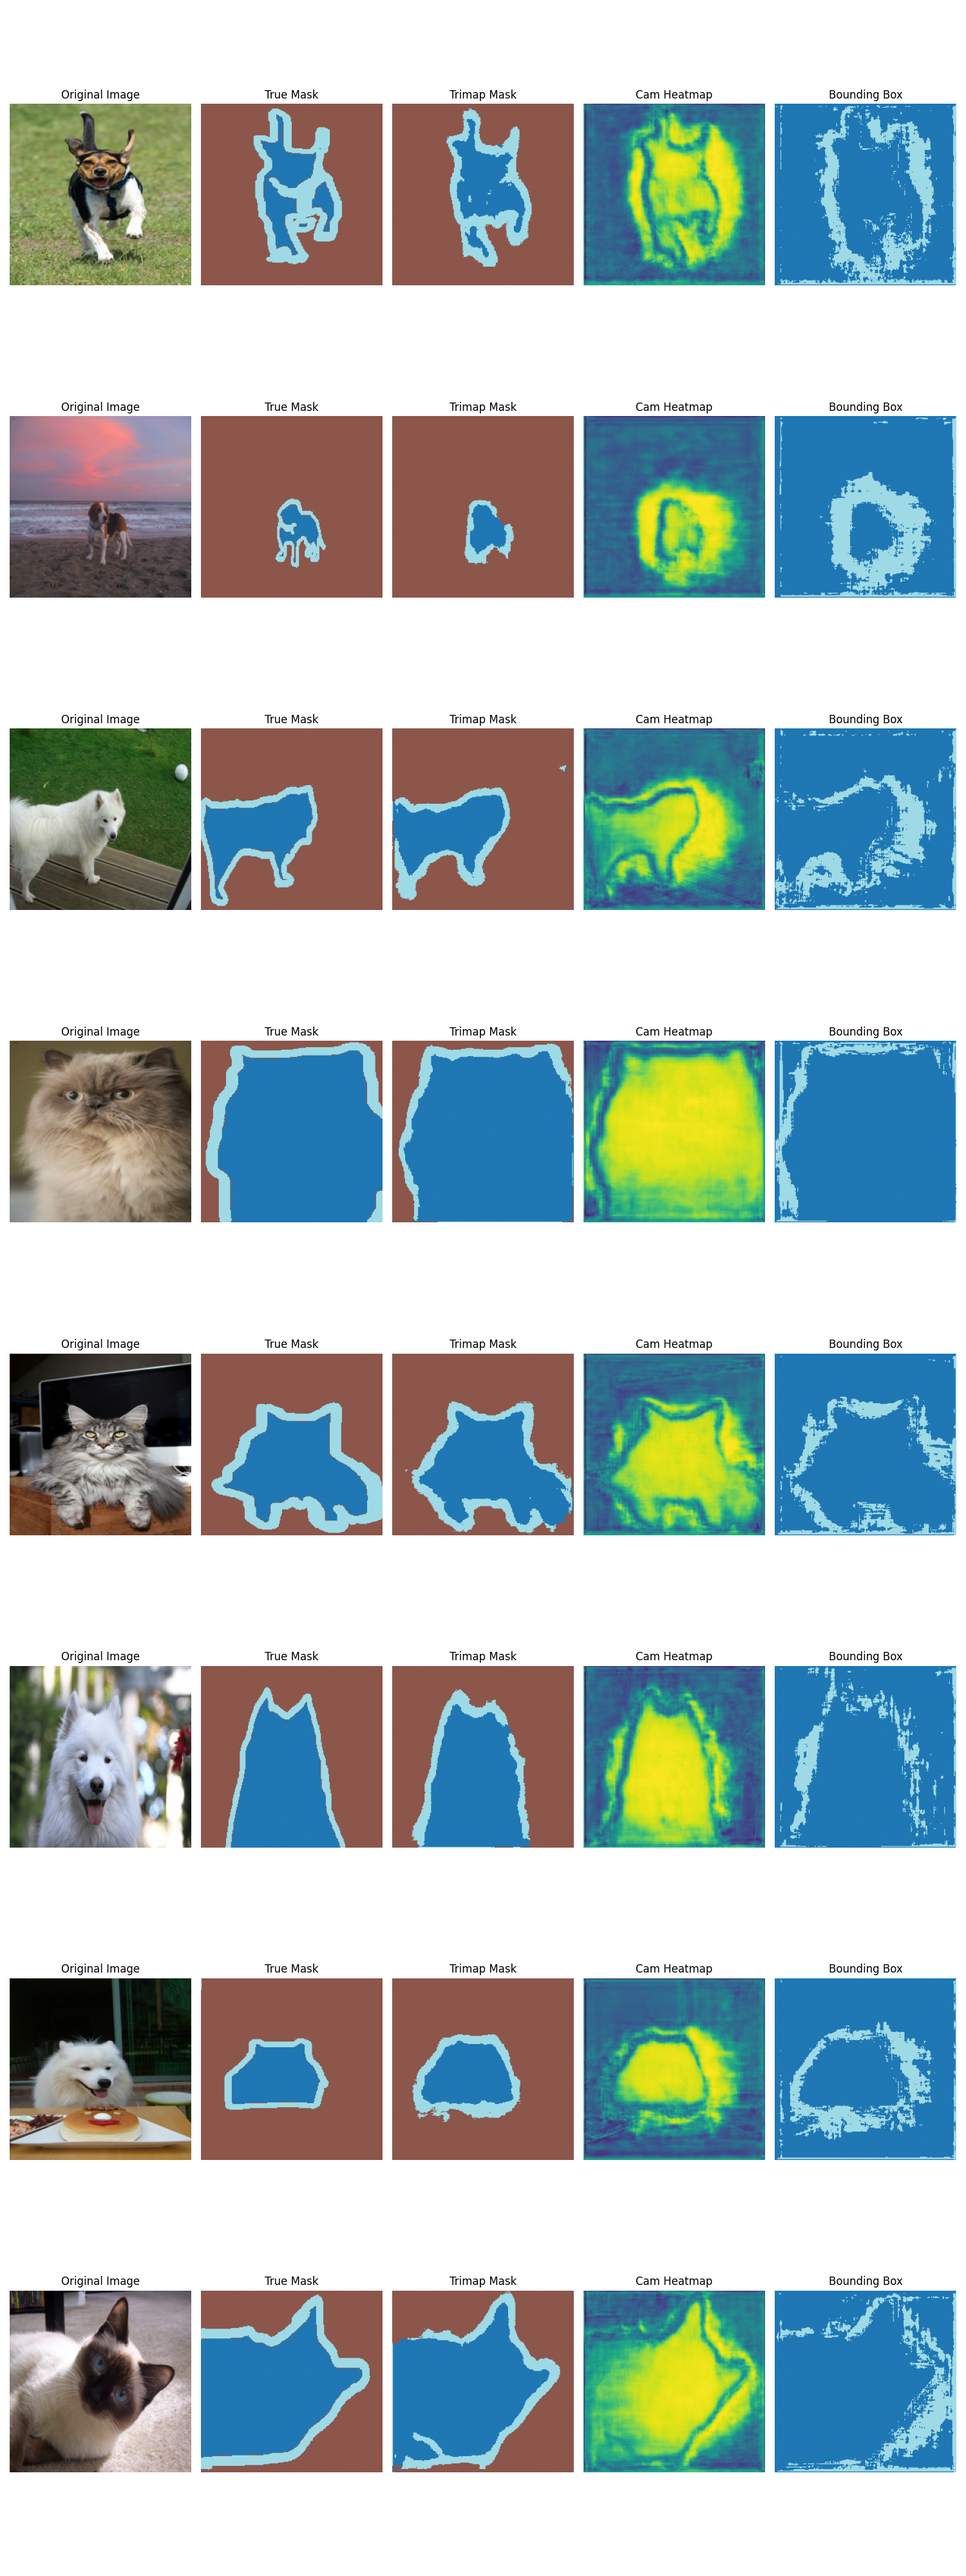
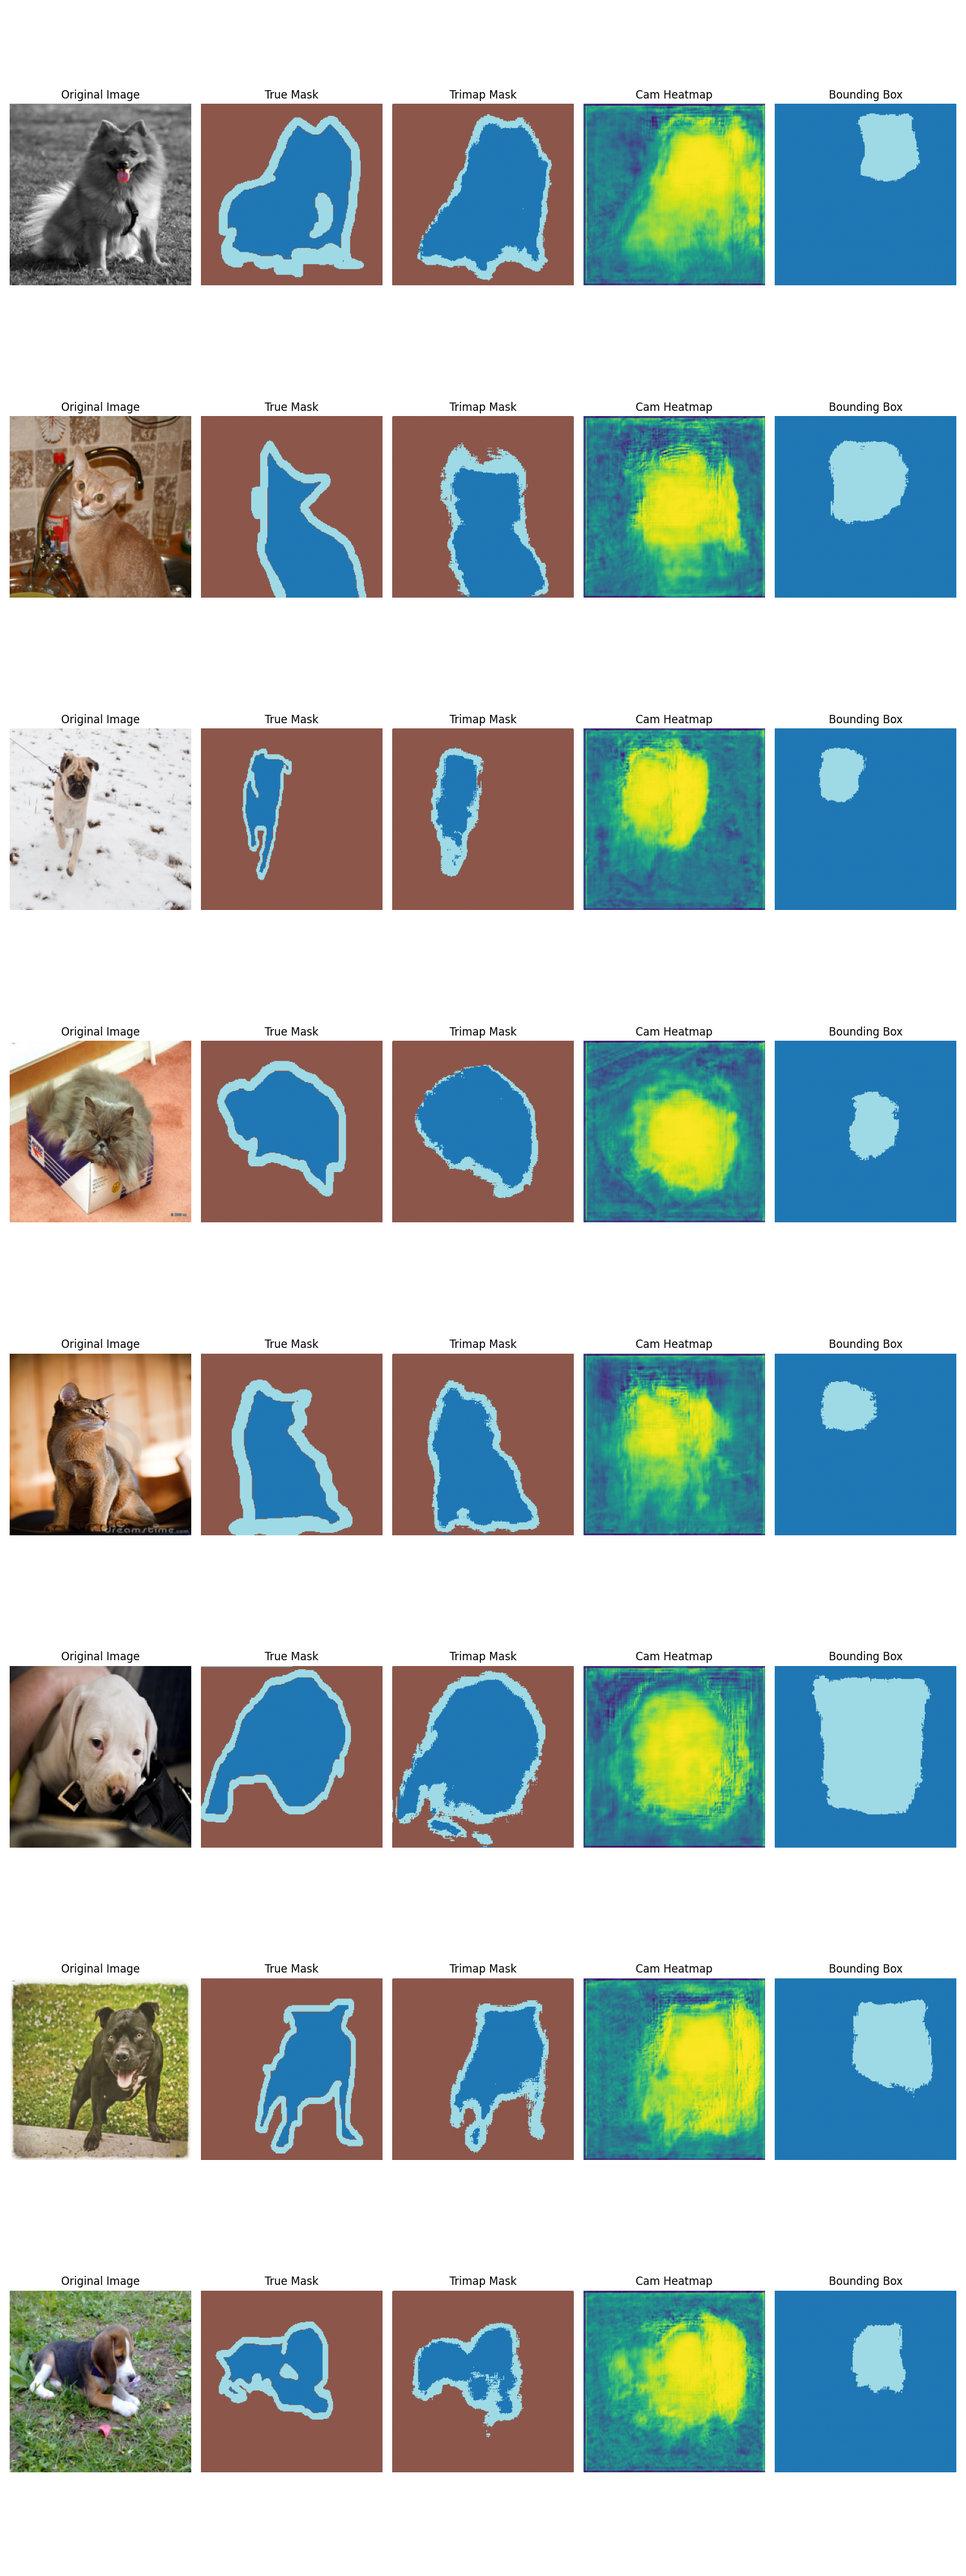
100 epoch run on entire dataset, training 3 segmentation heads. final loss 0.9238

diff --git a/experiment.py b/experiment.py
@@ -229,13 +229,14 @@ class CustomLoss(nn.Module):
                 total_loss = l
             else:
                 total_loss += l
+            # print(d, l.item())
         return total_loss
 
 
 class TrimapLoss(nn.Module):
     def __init__(self):
         super().__init__()
-        self.loss_fn = nn.CrossEntropyLoss()
+        self.loss_fn = nn.CrossEntropyLoss()  # uses mean by default
 
     def forward(self, logits, targets):
         # unique_vals = set(torch.unique(targets).detach().cpu().numpy())
@@ -397,9 +398,10 @@ def train_model(
 
 
 print("\n=== Using Segmentation Models PyTorch (SMP) for improved performance ===\n")
+TARGETS_LIST = [DatasetSelection.CAM, DatasetSelection.Trimap, DatasetSelection.BBox]
 BATCH_SIZE = 64
-EPOCHS = 20
-LEARNING_RATE = 1e-3
+EPOCHS = 100
+LEARNING_RATE = 3e-4
 OPTIMIZER_NAME = 'adam'
 SCHEDULER_NAME = 'reduce_on_plateau'
 CHECKPOINT_DIR = 'checkpoints/'
@@ -408,26 +410,34 @@ seed = 42
 
 torch.manual_seed(seed)
 
-# TEST
 
+class ConvSegHead(nn.Module):
+    def __init__(self, out_channels):
+        super(ConvSegHead, self).__init__()
+        self.block = nn.Sequential(
+            nn.Conv2d(16, 16, kernel_size=3, padding=1),
+            nn.ReLU(inplace=True),
+            nn.BatchNorm2d(16),
+            nn.Conv2d(16, out_channels, kernel_size=3, padding=1)
+        )
+
+    def forward(self, x):
+        return self.block(x)
 
 class CustomUNet(nn.Module):
     def __init__(self):
         super(CustomUNet, self).__init__()
         self.feature_extractor = smp.Unet(
-            encoder_name="resnet34",        # Choose encoder, e.g. resnet34
-            encoder_weights="imagenet",     # Use pre-trained weights
-            in_channels=3,                  # Number of input channels (RGB)
+            encoder_name="resnet34",
+            encoder_weights="imagenet",
+            in_channels=3,
         )
         self.feature_extractor.segmentation_head = nn.Identity()
 
-        self.seg_heads = nn.ModuleDict()  # keys must be str for some reason
-        self.seg_heads[DatasetSelection.Trimap.name] = nn.Conv2d(
-            16, 3, kernel_size=(3, 3), stride=(1, 1), padding=(1, 1))
-        self.seg_heads[DatasetSelection.CAM.name] = nn.Conv2d(
-            16, 1, kernel_size=(3, 3), stride=(1, 1), padding=(1, 1))
-        self.seg_heads[DatasetSelection.BBox.name] = nn.Conv2d(
-            16, 1, kernel_size=(3, 3), stride=(1, 1), padding=(1, 1))
+        self.seg_heads = nn.ModuleDict()
+        self.seg_heads[DatasetSelection.Trimap.name] = ConvSegHead(out_channels=3)
+        self.seg_heads[DatasetSelection.CAM.name] = ConvSegHead(out_channels=1)
+        self.seg_heads[DatasetSelection.BBox.name] = ConvSegHead(out_channels=1)
 
     def forward(self, img):
         features = self.feature_extractor(img)
@@ -435,13 +445,6 @@ class CustomUNet(nn.Module):
         for dataset_name, head in self.seg_heads.items():
             res[DatasetSelection[dataset_name]] = head(features)
         return res
-
-
-model = CustomUNet()
-with open('model_arch.txt', 'w') as file:
-    file.write(str(model))
-
-# TEST
 
 
 # Define transformations for training
@@ -464,10 +467,8 @@ target_transform = transforms.Compose([
 ])
 
 
-TARGETS_LIST = [DatasetSelection.CAM, DatasetSelection.Trimap]
 train_dataset = InMemoryPetSegmentationDataset(
     DATA_DIR, ANNOTATION_DIR, targets_list=TARGETS_LIST)
-
 
 # Create train/val split
 train_size = int(0.8*len(train_dataset))
@@ -482,14 +483,6 @@ val_dataloader = DataLoader(val_dataset, batch_size=BATCH_SIZE, shuffle=False)
 
 # Create SMP model - Using UNet with ResNet34 encoder pre-trained on ImageNet
 smp_model = CustomUNet().to(device)
-# smp.Unet(
-#     encoder_name="resnet34",        # Choose encoder, e.g. resnet34
-#     encoder_weights="imagenet",     # Use pre-trained weights
-#     in_channels=3,                  # Number of input channels (RGB)
-#     # Number of output classes (pet, background, border)
-#     # classes=3,
-#     classes=1,
-# ).to(device)
 
 model = train_model(
     smp_model,
@@ -503,11 +496,7 @@ model = train_model(
     checkpoint_dir=CHECKPOINT_DIR,
     resume_from=RESUME_FROM
 )
-
-# smp_model(next(iter(train_dataloader))[0])
-
 smp_model, smp_epoch, smp_best_loss = load_checkpoint(
     smp_model, 'checkpoints/best_model.pth')
 print(smp_epoch)
-
 metrics = visualize_predictions(smp_model, (val_dataset))
